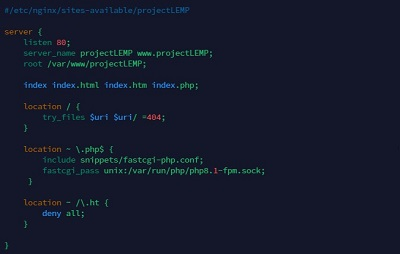
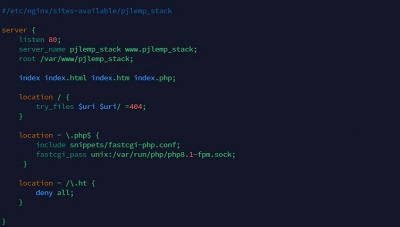
Updated project documentation and images

diff --git a/PROJECT 4/Project4.md b/PROJECT 4/Project4.md
@@ -287,9 +287,9 @@ For this project, I'll be using pjlemp_stack as the root directory for my domain
 
 9. Reload the Nginx service by running the command `sudo systemctl reload nginx`
 
-9. Test that the configuration is working by opening the website through the public ip address, using the command `http://<Public-IP-Address>:80`. In this case, the public ip address is the public ip of the web server (52.55.96.71)
+10. Test that the configuration is working by opening the website through the public ip address, using the command `http://<Public-IP-Address>:80`. In this case, the public ip address is the public ip of the web server (52.55.96.71)
 
-
+![Alt text](Images/nginx_configuration_php.jpg)
 
 The index.html file can be left in place as a temporary landing page for the application until an index.php file is set up to replace it. Once we have a working index.php file, we'd need to remove or rename the index.html file in the domain root directory as it takes precedence over the index.php file by default.
 
